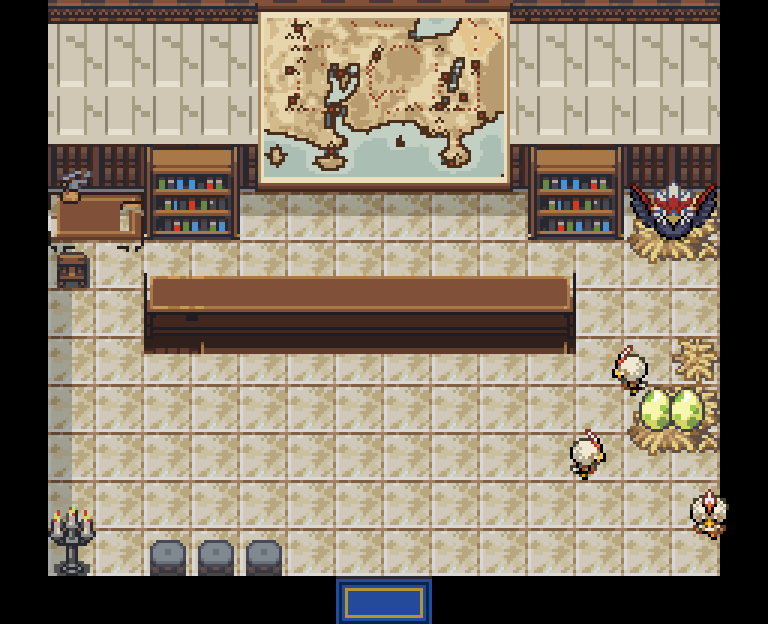
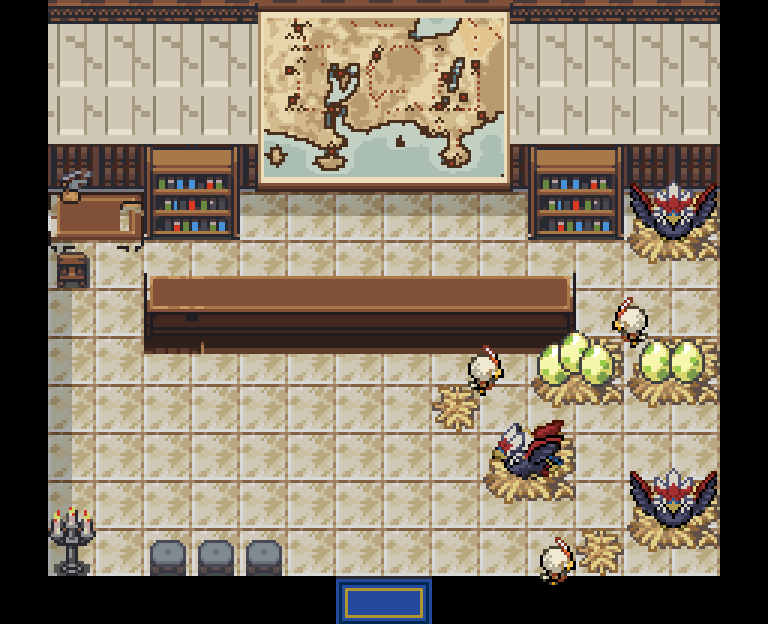
Templar Citadel: registry nursery, three Braviaries and two nests
User: two more straw piles, two more Braviaries, more eggs; the room is theirs.
Three Braviaries on straw beds, two nests with five eggs, Rufflet chicks, feed
straw across the east side; the walkway clear. Bible updated.

Claude-Session: https://claude.ai/code/session_01FHXnfqnedTHLf5QFbB3MCU

Changed region(s): [[0.625, 0.4567, 0.9375, 0.8221], [0.6875, 0.7612, 0.9688, 0.9439], [0.5625, 0.5481, 0.6562, 0.7003]]

diff --git a/tools/art/templar_hq/registry/registry_mock.py b/tools/art/templar_hq/registry/registry_mock.py
@@ -7,8 +7,8 @@ nave at the bottom centre (row 11, x 7-8). The study's room materials.
   cabinets of pigeonholed orders for every Tavern (Odyssey 11.8's).
 - The registrar's counter across the room (MonoMyth's bar counter, shortened, in Crown's wood): behind it, staff only.
 - West: House Raptora's liaison's desk (MonoMyth's writing desk, a chair before it), watching the logs.
-- East, the nursery: a Braviary resting on a bed of straw, a straw nest with two eggs, Rufflet chicks about it, a
-  little straw for feed (MonoMyth's stable straw; the game's own Rufflet and Braviary overworld sprites and the Egg's
+- East, the nursery, their place (user: more of them): three Braviaries each resting on a bed of straw, two straw
+  nests with five eggs, Rufflet chicks among them, straw for feed (MonoMyth's stable straw; the game's own Rufflet and Braviary overworld sprites and the Egg's
   icon). No candle on this side (hay).
 - By the door: three stools where Templars wait their turn (MonoMyth's bar stools); a candelabra in the south-west
   corner.
@@ -70,6 +70,7 @@ def pieces():
     rl = sprite(os.path.join(GFX, 'rufflet', 'overworld.png'), 4)   # (frames: 0-1 down, 2-3 up, 4-5 left)
     P['rufflet_l'] = rl; P['rufflet_r'] = rl[:, ::-1].copy()
     P['egg'] = sprite(os.path.join(GFX, 'egg', 'icon.png'), 0)
+    P['braviary_l'] = np.array(Image.open(os.path.join(HERE, '..', 'yard', 'braviary_left.png')).convert('RGBA')).astype(int)
     P['braviary'] = np.array(Image.open(os.path.join(HERE, '..', 'yard', 'braviary_down.png')).convert('RGBA')).astype(int)
     import parchment_map as PMAP
     P['map'] = PMAP.scroll(80, 53)                            # (user's illustrated map, as parchment, hung as a scroll)
@@ -103,15 +104,23 @@ def main(out):
     put(img, P['counter'], 3 * T, 6 * T - 6)
     # west corner: House Raptora's liaison, at a desk against the wall
     SM.paste(img, P['desk'], 1, 3); SM.paste(img, P['chairL'], 1, 5)
-    # east: the nursery
-    SM.paste(img, P['strawbed'], 13, 4); put(img, P['braviary'], 13 * T, 4 * T - 10)
-    SM.paste(img, P['nest'], 13, 8)
-    ny, nx = centre(P['nest']); ey, ex = centre(P['egg'])
-    for dx in (-5, 5):                                        # (two eggs sitting in the middle of the straw)
-        put(img, P['egg'], int(13 * T + nx - ex + dx), int(8 * T + ny - ey - 3))
-    put(img, P['rufflet_r'], 11 * T + 4, 9 * T - 14); put(img, P['rufflet'], 14 * T - 4, 10 * T - 10)
-    put(img, P['rufflet_l'], 12 * T + 2, 6 * T + 6)
-    SM.paste(img, P['strawsmall'], 14, 7)
+    # east: the nursery, their place (user 2026-11-23: more of them): three Braviaries each on a bed of straw, two
+    # nests with five eggs, Rufflet chicks among them, feed straw; the walkway from the door (x 7-8) left clear
+    def bed(x, y, bird):
+        SM.paste(img, P['strawbed'], x, y); put(img, bird, x * T, y * T - 10)
+    def nest(x, y, n):
+        SM.paste(img, P['nest'], x, y)
+        ny, nx = centre(P['nest']); ey, ex = centre(P['egg'])
+        offs = {2: [(-5, 0), (5, 0)], 3: [(-7, 1), (0, -3), (7, 1)]}[n]
+        for dx, dy in offs: put(img, P['egg'], int(x * T + nx - ex + dx), int(y * T + ny - ey - 3 + dy))
+    bed(13, 4, P['braviary'])
+    nest(11, 7, 3); nest(13, 7, 2)
+    bed(10, 9, P['braviary_l'])
+    bed(13, 10, P['braviary'])
+    SM.paste(img, P['strawsmall'], 9, 8); SM.paste(img, P['strawsmall'], 12, 11)
+    put(img, P['rufflet_l'], 12 * T + 2, 5 * T + 6)
+    put(img, P['rufflet_r'], 9 * T + 2, 7 * T - 10)
+    put(img, P['rufflet_r'], 11 * T - 6, 11 * T - 10)                   # (by the feed straw, clear of the birds)
     # by the door
     for x in (3, 4, 5): SM.paste(img, P['stool'], x, 11)
     SM.paste(img, P['candelabra'], 1, 10)

diff --git a/bible/20_chapter1_build.md b/bible/20_chapter1_build.md
@@ -254,7 +254,7 @@ Chapter 1 is the template: once its foundations (mechanics, maps, buildings, NPC
     - **Decided (user 2026-11-22):** a dead-end side branch off Route 13's fork (Route 15 east closed by a guard); a curtain wall with an open arch and two guards, no hallway map; the ground **stony with touches of snow** (less snowy than Mirroh or Mt. Mirroh, like Fort Elderflower's paving with drifts). Zone plan v1: `tools/art/templar_hq/layout_sketch.py`. **The church is not Crown's cathedral** (Mirroh's chapel uses it; no other source hack has a second one, survey in `assets/templar_hq_reference/cathedral_options.png`): **the Arceus church from Pokémon Empire's Starlight City** (user-supplied; **credit Pokémon Empire before release**), **its front building only** (user: shed the domed hall behind it): the cross tower, the great dome and the rose-window front, cut at the GBA's scale (the source is a 2x upscale) by `tools/art/templar_hq/church/cut_front.py`, **7x13 tiles, native size** (user). **In Arceus's colours** (user: gold and blue, echoing Arceus): the great dome blue; gold on the ring cradling the cross tower (Arceus's wheel), the dome's ribs, both small dome caps and the cross; cream walls, door and stained glass kept (`colourise.py`; `assets/templar_hq_reference/church_arceus_v1.png`).
     - **The courtyard (mock v6, user 2026-11-22; `tools/art/templar_hq/citadel_mock.py`, `assets/templar_hq_reference/citadel_mock_v6_2x.png`):** built on one axis after studying MonoMyth's and Crown's squares (Watercress Port, Chamomile, Wood Avens, Crown's harbour town: a symmetric axis, the main building raised on a terrace with a centred stair, a framed square, houses in mirrored pairs, nothing scattered) and Fort Elderflower's snow (no trees inside paved courts; pines outside in loose clusters of big and small; broad stepped snow patches in the open stone; walking lines bare). The church on a crenellated terrace, its stair on the axis; **a fountain square** (Crown 3.0's tiered fountain) with **four worn stone Arceus statues on its corners** (the expansion's Arceus follower sprite, its side frame, recoloured to weathered grey stone; the left pair facing left, the right pair right; user); the arch, the road down. **The houses in a dark, deep grey wood** (user: so they stand out; Crown 3.2's timber recoloured, glass and lit windows kept), in mirrored pairs: the Tavern and its twin below, two small houses on ledges above, each up a stair centred on its door. **The west pocket: a sparring ground** (user): a railed yard (Crown's rail fence in the grey wood), MonoMyth's Old Bay target stands, Templars sparring (stage 2). **The east pocket: the Braviary landing ground** (user): a round stone pad inlaid with Arceus's golden wheel (drawn), hay by the wall, **Braviaries moving about in the overworld** (user; the expansion's Braviary follower sprite; stage 2 objects). Access: a 3-wide street runs down from each ledge beside the Tavern and its twin to the square (the user's rule: no squeezing). The gate (mock v6, user 2026-11-22): an open gateway, the curtain wall ending in a round tower each side with nothing across (the wall's top carried over the gap read as a broken wall); outside it a paved apron where the two guards stand, clear of the pines. The landing pad centred in the open square above the Tavern's twin (x 29-33, half a tile down); no hay. **The way east to Route 15 (user 2026-11-22): a whole line of Templar guards across the cleft** (one on each of its three rows) blocks it for now. Spoken to, they say **there has been an incident on Route 15, they are observing the situation, and until something changes nobody is allowed in or out that way** (stage 2: their script; the condition that opens it comes with Route 15's chapter). **The buildings (user 2026-11-22):** the Tavern (lower west), **the barracks** (its twin, lower east), **the armoury** (upper west, above the sparring ground), **the Braviary mews** (upper east, above the landing ground).
     - **Built and walked (2026-11-22):** `MAP_TEMPLAR_CITADEL` (`TemplarCitadel`, 40x40; `tools/art/templar_hq/build_citadel.py` from `citadel_mock.py`; its own tileset pair, 12 palettes, 643 tiles; `MAPSEC_DR_TEMPLAR_HQ`, snow; music for now Route 13's, `MUS_DR_MM_ROUTE15`). **Reached from Route 13's north-east exit by a short fade**, as Hollow Hill's way north reaches Mirroh Gate: triggers on Route 13's top row (x 32-34) warp to the Citadel's road (x 18-20, row 38), and on the Citadel's bottom row back. (A map connection was tried and the Citadel came up scrambled in the game: the engine reloads only the new map's secondary tileset across a connection, since connected maps are meant to share a primary, and draws the neighbour's visible strip with the current map's tiles; the Citadel has its own primary.) Collision: paving and stairs walked on, the landing pad too; cliffs, walls, buildings, statues, the fountain, lamps, fences, targets solid; outside the wall only the road and the guards' apron. **The doors stay shut until the interiors exist** (next). The stair's foot has no lamps: with the statues and the fountain they closed it off from the square. **The line of three Templar guards across the cleft to Route 15 is in** (objects; their line as the user gave it). Walked in the game: from Route 13 in, the gateway, the square, up the church stair to its door, both streets and ledge stairs, the sparring yard, the landing pad, both lower doors, the guards (they block and speak), and back down to Route 13 (`assets/templar_hq_reference/ingame_citadel_walk.png`).
-    - **The Citadel's story (user 2026-11-22; stages 2-4):** it stands in **a stone hollow of the Mirroh mountains**, an **open courtyard** before the church, with **Templars outside in the courtyard and inside the church**. **Loulan** (the Templar the player helped on Route 11) **reappears inside**: she has told Archbishop Ambrose about the player, comes up to them, thanks them again for the Eiscue, and **guides them further in, to the heart of the cathedral**, where **the player first meets Archbishop Ambrose Caymen**, who speaks with them. **The interior has two levels (user 2026-11-22):** the **first floor**, the cathedral as its central room with **four offices around it**, off cloister walks either side (user: **Ambrose's study**, **the Braviary registry**, **the bishops' chambers**, and **the kitchen and storehouse** where the Templars stock food and feed themselves: the prime cathedral's kitchen and stores; floor plan v1, `tools/art/templar_hq/interior_sketch.py`); **the nave from Pokémon Empire's Arceus church interior** (user 2026-11-23, supplied with its tileset; credit Pokémon Empire; mock v2, `tools/art/templar_hq/nave/nave_mock_v2.py`, `assets/templar_hq_reference/nave_mock_v2_2x.png`; a first try from Crown's round hall was set aside): its raised chancel behind a balustrade (the altar where Ambrose waits, the lectern, the communion table, the piano, three great stained-glass windows), **the great window's central light is an Arceus in stained glass** (approved by the user 2026-11-23, from the user's own design, `assets/templar_hq_reference/empire/user_arceus_window_mockup.png`, replacing Empire's robed figure; mock v3, `assets/templar_hq_reference/nave_mock_v3_2x.png`, `arceus_glass_vs_design.png`): **pixel for pixel, each pixel given the Empire glass for what it is** (user: look at each colour of the design and replace that pixel with the stained-glass cell that fits; a try that took the *nearest* colour came out khaki and grey, and the user pointed to Empire's gold cells, (240,184,48)/(243,192,39)): dark pixels Empire's lead; the rest read by hue into a family, white for the body, cream for the halo, yellow for the rays, gold for the wheel, blue, red, teal-green for eyes and jewels, and the design's light and shade picks which of that family's shades, every shade an exact colour of Empire's windows; the light filled solid between its frames so none of the old figure's lead shows through (`tools/art/templar_hq/glass/arceus_glass.py`; tries that re-cut the design into panes looked jumbled and were dropped), a stair down either side of the low window, the nave of pews down the Order's blue carpet; its brick floor and wooden wall tops recoloured to the church's cream stone; **six doors in its south-facing wall faces** (where banners hung; confirmed by the user 2026-11-23): on the chancel, west **the sealed stair to the Sanctum** (a gold grille) and east **Ambrose's study**; at the head of the nave **the bishops' chambers** (west) and **the Braviary registry** (east), then **the kitchen** (west) and **the storehouse** (east). For the kitchen: a stove the user liked, from a MonoMyth house (`assets/templar_hq_reference/empire/monomyth_stove_room.png`; **found in its ROM**: the cabin layouts 0x8864c00 / 0x8866430, `monomyth_stove_found.png`). **Ambrose's study** (behind the chancel's east door, user 2026-11-23; mock v2, `tools/art/templar_hq/study/study_mock.py`, `assets/templar_hq_reference/study_mock_v2_3x.png`; v1 was rejected: it did not read as an office). **Laid out by use** (floor plan v2, `study_plan.py`, approved): 14x12, Crown 7.9's room (user's pick, `study_office_candidates.png`) widened, its wallpaper in the cathedral's cream, its panelling and cream marble kept. **Work:** MonoMyth's writing desk (paper, quill, inkwell, in a dark wood) centred on a widened blue-and-gold rug, **Ambrose's chair behind it** facing the door (Crown 9.3's gold armchair, against the panelling under **the Order's banner with Arceus's wheel**, drawn as in the Sanctum), **two visitor chairs** before it facing him, the walkway from the door straight up to them. **Back wall:** two bookcases west. **Rest (east), for nights he stays in the cathedral:** a bed, head to the wall (Crown 1.18's, white sheets and a blue frame), a small chest at its head as a bedside stand, MonoMyth's chest of drawers for his robes, a pair of folding-screen panels (MonoMyth) at its foot shielding it from the room; the bed is reached from beside it. **Reading (west):** an armchair facing a tea table. **By the door:** two busts on plinths and a candelabra in each corner (Crown 18.1). Credit Crown, MonoMyth. **The bishops' chambers** (behind the nave's west door at its head; user 2026-11-23; floor plans v1, approved, `tools/art/templar_hq/bishops/bishops_plan.py`, `assets/templar_hq_reference/bishops_plan_v1.png`): **two rooms.** **The study hall** (18x13, entered from the nave): the bishops' day room for **prayer, discussion and day-to-day record keeping**, where **visiting diplomats and notables mingle** (anything needing real discretion goes to Ambrose's study instead): a small shrine with kneelers at its head on the axis from the door, between two banners; records west (two clerks' desks, bookcases, scroll racks); discussion east (a long table seating eight, a sitting corner with a sofa and armchairs); **the dormitory's door** in the north wall's west end. **One subtle clue** to the cult-aligned bishops (user): a letter the player can read on the lower clerk's desk (wording `[OPEN]`, story stage). **The dormitory**: a **shared sleeping room for the six bishops** (user; plan v1 put six beds along the north wall, superseded by mock v2 below); its door back to the hall at the bottom. **Mocks v1** (`tools/art/templar_hq/bishops/hall_mock.py`, `dorm_mock.py`; `assets/templar_hq_reference/hall_mock_v1_3x.png`, `dorm_mock_v1_3x.png`), in the study's materials (Crown 7.9's cream walls, panelling and marble): **the hall**: the shrine is the Arceus wheel on a blue roundel over an altar (Crown 9.3's cream table) between candelabras and the Order's banners, a prayer mat across the axis (the kneelers) and a blue runner down to the door; west, Fantasma's scroll cabinet, scroll basket and the record clerk's ledger table (his chair beside it), and **the clue desk** (MonoMyth's writing desk, its sheet of paper the letter, a chair before it); east, a long table **turned north-south** so its eight chairs face it from the sides (MonoMyth's, toned to dark wood), a bookcase and Fantasma's drawer cabinet on the back wall, and Crown 9.3's two armchairs facing across a low table as the visitors' corner; the dormitory's door is Crown 1.12's wall door. **The dormitory, mock v2** (v1, a row of beds each with its own chest and footlocker, "looks really awkward" (user); redesigned after other games' multi-bed rooms, `dorm_references.png`: MonoMyth's inn 87ed300 and hut 87f6e98, Odyssey 11.8, which group their beds bare and share one set of furniture; `dorm_mock_v2_3x.png`): 14x16, **monastery style** (user's pick): **three beds down each side**, heads north, end to end as in Odyssey 11.8 (Odyssey's bed, wooden headboard and blue quilt); a long blue-and-gold rug down the centre aisle with **one shared table** (dark wood, four chairs a side) for reading and meals; at the head the Arceus wheel over an altar between candelabras, as in the hall; against the back wall, in the bays either side of the altar, the robes chest for the six (MonoMyth's bureau in Crown's wood, as in the study) and the washstand; the floor by the door left clear (user: Fantasma's drawer cabinet standing there "doesn't fit"). **The Braviary registry** (behind the nave's east door at its head; user 2026-11-23; plan v1 `tools/art/templar_hq/registry/registry_plan.py`, mock v1 `registry_mock.py`, `assets/templar_hq_reference/registry_mock_v1_3x.png`): **the office that runs the empire's Braviary travel** (every Tavern Templar flies paying travellers; House Raptora bred the line). 16x12: on the back wall **the map of Cormoria** (the game's own parchment region map, scaled into a wooden frame) between ledger shelves, **dispatch cabinets** for orders to every Tavern at the west end; **the registrar's counter** across the room (staff behind it, as in a shop); west, **House Raptora's liaison's desk** (user: yes), watching the logs (a quiet hook for Raptora's oversight of every flight, 16_bloodlines_canon.md); east, **the nursery** (user: "some Rufflet chicks plus even a few egg overworld sprites to show that new Rufflets and Braviaries are often born or evolve here"): a Braviary resting on straw, a straw nest with eggs, Rufflet chicks about it (the game's own Rufflet and Braviary overworld sprites and the Egg's icon; in the game, object events); stools by the door for Templars waiting their turn. No source has a bird perch, so the Braviary rests on straw. Credit Crown, MonoMyth, Odyssey. **Mock v2** (`registry_mock_v2_3x.png`; user: the desk and bookcases sat awkwardly, the eggs were off the straw, the map should be more like parchment and cleaner, or built from the user's high-fidelity illustrated map): the back wall is four tiles tall (wallpaper three, panelling one) and holds **the user's illustrated map of the Cormorian Empire redrawn as a parchment scroll** (`registry/parchment_map.py`: pale paper, land in three parchment tones from the painting's light and shade, a pale sea wash, the desert tan, an ink coastline, the rivers in blue ink, the painting's roads as dotted red-brown ink, its towns as ink squares, its rocky peaks as ink marks, the compass rose; wooden rods top and bottom) between **two ledger bookcases**, the counter running their width so the whole staff wall reads as one; **the Raptora liaison's desk against the wall in the west corner** (the liaison faces the wall, like a clerk); the dispatch cabinets dropped; **the eggs sit in the middle of the straw nest** (placed from the nest's own shape). Credit Crown, MonoMyth; Fantasma public. **a stair from the cathedral room up to the Sanctum**, the top of the cross tower (its trio of stained-glass windows and the cross above), known simply as **the Sanctum**. This makes the Citadel the natural place for **the Opal-for-Warding-Ring exchange** (the player carries the Sparkling Opal from Pelluca's shrine); 8d's Ambrose, inspecting the ice ruins in Pelluca, comes after. **Required before Mt. Mirroh (user 2026-11-22):** a Templar on Route 13's trail to Mt. Mirroh turns the player back until they have met Ambrose (stage 4 sets the flag). **Loulan leads the player to the cathedral's altar** (the head of the first floor's central room), where Ambrose waits (user); the Sanctum is for later. **The Sanctum (user 2026-11-22): a special area unlocked later, a place of reflection, and a library**: a holy room to commune with Arceus that is also **a lost repository of knowledge and secret tomes** (its look drawn from the source hacks' libraries and archives: **Fantasma's castle library**, its mapsec 1 layout s001_b68c, the sister of the room Kimaris's chamber was made from; three arched alcoves of books, lecterns with open tomes, a writing desk, candelabras, and **a glowing circle in the floor where the shadow self rises**; recoloured to the church's cream stone, its skull banners to the Order's blue with Arceus's golden wheel, its two narrow windows to stained glass, the circle to the church's gold and glass blue, the cobwebs kept since it is a lost repository; `tools/art/templar_hq/sanctum/sanctum_mock.py`, `assets/templar_hq_reference/sanctum_mock_v1_3x.png`; Fantasma's art is public assets, no credit needed (user 2026-11-22)), with one striking feature: the player can **fight their shadow self**, a copy of the player with **their exact team, slightly above the current level cap**; **winning earns interesting rewards**. **Unlocked by defeating Archbishop Ambrose** in the Archbishop fight of the Ambrose Caymen Arc (14_story_spine.md: Act III closing / Act IV opening, after Osrid foils the bishops' coup; Ambrose with Temperance and Brunhilda), user 2026-11-22. **The shadow-self challenge (user 2026-11-22): an optional quest, three fights in the whole game**, each opened by a condition; the player is **pinged when the Sanctum can be entered again** (how: `[OPEN]`):
+    - **The Citadel's story (user 2026-11-22; stages 2-4):** it stands in **a stone hollow of the Mirroh mountains**, an **open courtyard** before the church, with **Templars outside in the courtyard and inside the church**. **Loulan** (the Templar the player helped on Route 11) **reappears inside**: she has told Archbishop Ambrose about the player, comes up to them, thanks them again for the Eiscue, and **guides them further in, to the heart of the cathedral**, where **the player first meets Archbishop Ambrose Caymen**, who speaks with them. **The interior has two levels (user 2026-11-22):** the **first floor**, the cathedral as its central room with **four offices around it**, off cloister walks either side (user: **Ambrose's study**, **the Braviary registry**, **the bishops' chambers**, and **the kitchen and storehouse** where the Templars stock food and feed themselves: the prime cathedral's kitchen and stores; floor plan v1, `tools/art/templar_hq/interior_sketch.py`); **the nave from Pokémon Empire's Arceus church interior** (user 2026-11-23, supplied with its tileset; credit Pokémon Empire; mock v2, `tools/art/templar_hq/nave/nave_mock_v2.py`, `assets/templar_hq_reference/nave_mock_v2_2x.png`; a first try from Crown's round hall was set aside): its raised chancel behind a balustrade (the altar where Ambrose waits, the lectern, the communion table, the piano, three great stained-glass windows), **the great window's central light is an Arceus in stained glass** (approved by the user 2026-11-23, from the user's own design, `assets/templar_hq_reference/empire/user_arceus_window_mockup.png`, replacing Empire's robed figure; mock v3, `assets/templar_hq_reference/nave_mock_v3_2x.png`, `arceus_glass_vs_design.png`): **pixel for pixel, each pixel given the Empire glass for what it is** (user: look at each colour of the design and replace that pixel with the stained-glass cell that fits; a try that took the *nearest* colour came out khaki and grey, and the user pointed to Empire's gold cells, (240,184,48)/(243,192,39)): dark pixels Empire's lead; the rest read by hue into a family, white for the body, cream for the halo, yellow for the rays, gold for the wheel, blue, red, teal-green for eyes and jewels, and the design's light and shade picks which of that family's shades, every shade an exact colour of Empire's windows; the light filled solid between its frames so none of the old figure's lead shows through (`tools/art/templar_hq/glass/arceus_glass.py`; tries that re-cut the design into panes looked jumbled and were dropped), a stair down either side of the low window, the nave of pews down the Order's blue carpet; its brick floor and wooden wall tops recoloured to the church's cream stone; **six doors in its south-facing wall faces** (where banners hung; confirmed by the user 2026-11-23): on the chancel, west **the sealed stair to the Sanctum** (a gold grille) and east **Ambrose's study**; at the head of the nave **the bishops' chambers** (west) and **the Braviary registry** (east), then **the kitchen** (west) and **the storehouse** (east). For the kitchen: a stove the user liked, from a MonoMyth house (`assets/templar_hq_reference/empire/monomyth_stove_room.png`; **found in its ROM**: the cabin layouts 0x8864c00 / 0x8866430, `monomyth_stove_found.png`). **Ambrose's study** (behind the chancel's east door, user 2026-11-23; mock v2, `tools/art/templar_hq/study/study_mock.py`, `assets/templar_hq_reference/study_mock_v2_3x.png`; v1 was rejected: it did not read as an office). **Laid out by use** (floor plan v2, `study_plan.py`, approved): 14x12, Crown 7.9's room (user's pick, `study_office_candidates.png`) widened, its wallpaper in the cathedral's cream, its panelling and cream marble kept. **Work:** MonoMyth's writing desk (paper, quill, inkwell, in a dark wood) centred on a widened blue-and-gold rug, **Ambrose's chair behind it** facing the door (Crown 9.3's gold armchair, against the panelling under **the Order's banner with Arceus's wheel**, drawn as in the Sanctum), **two visitor chairs** before it facing him, the walkway from the door straight up to them. **Back wall:** two bookcases west. **Rest (east), for nights he stays in the cathedral:** a bed, head to the wall (Crown 1.18's, white sheets and a blue frame), a small chest at its head as a bedside stand, MonoMyth's chest of drawers for his robes, a pair of folding-screen panels (MonoMyth) at its foot shielding it from the room; the bed is reached from beside it. **Reading (west):** an armchair facing a tea table. **By the door:** two busts on plinths and a candelabra in each corner (Crown 18.1). Credit Crown, MonoMyth. **The bishops' chambers** (behind the nave's west door at its head; user 2026-11-23; floor plans v1, approved, `tools/art/templar_hq/bishops/bishops_plan.py`, `assets/templar_hq_reference/bishops_plan_v1.png`): **two rooms.** **The study hall** (18x13, entered from the nave): the bishops' day room for **prayer, discussion and day-to-day record keeping**, where **visiting diplomats and notables mingle** (anything needing real discretion goes to Ambrose's study instead): a small shrine with kneelers at its head on the axis from the door, between two banners; records west (two clerks' desks, bookcases, scroll racks); discussion east (a long table seating eight, a sitting corner with a sofa and armchairs); **the dormitory's door** in the north wall's west end. **One subtle clue** to the cult-aligned bishops (user): a letter the player can read on the lower clerk's desk (wording `[OPEN]`, story stage). **The dormitory**: a **shared sleeping room for the six bishops** (user; plan v1 put six beds along the north wall, superseded by mock v2 below); its door back to the hall at the bottom. **Mocks v1** (`tools/art/templar_hq/bishops/hall_mock.py`, `dorm_mock.py`; `assets/templar_hq_reference/hall_mock_v1_3x.png`, `dorm_mock_v1_3x.png`), in the study's materials (Crown 7.9's cream walls, panelling and marble): **the hall**: the shrine is the Arceus wheel on a blue roundel over an altar (Crown 9.3's cream table) between candelabras and the Order's banners, a prayer mat across the axis (the kneelers) and a blue runner down to the door; west, Fantasma's scroll cabinet, scroll basket and the record clerk's ledger table (his chair beside it), and **the clue desk** (MonoMyth's writing desk, its sheet of paper the letter, a chair before it); east, a long table **turned north-south** so its eight chairs face it from the sides (MonoMyth's, toned to dark wood), a bookcase and Fantasma's drawer cabinet on the back wall, and Crown 9.3's two armchairs facing across a low table as the visitors' corner; the dormitory's door is Crown 1.12's wall door. **The dormitory, mock v2** (v1, a row of beds each with its own chest and footlocker, "looks really awkward" (user); redesigned after other games' multi-bed rooms, `dorm_references.png`: MonoMyth's inn 87ed300 and hut 87f6e98, Odyssey 11.8, which group their beds bare and share one set of furniture; `dorm_mock_v2_3x.png`): 14x16, **monastery style** (user's pick): **three beds down each side**, heads north, end to end as in Odyssey 11.8 (Odyssey's bed, wooden headboard and blue quilt); a long blue-and-gold rug down the centre aisle with **one shared table** (dark wood, four chairs a side) for reading and meals; at the head the Arceus wheel over an altar between candelabras, as in the hall; against the back wall, in the bays either side of the altar, the robes chest for the six (MonoMyth's bureau in Crown's wood, as in the study) and the washstand; the floor by the door left clear (user: Fantasma's drawer cabinet standing there "doesn't fit"). **The Braviary registry** (behind the nave's east door at its head; user 2026-11-23; plan v1 `tools/art/templar_hq/registry/registry_plan.py`, mock v1 `registry_mock.py`, `assets/templar_hq_reference/registry_mock_v1_3x.png`): **the office that runs the empire's Braviary travel** (every Tavern Templar flies paying travellers; House Raptora bred the line). 16x12: on the back wall **the map of Cormoria** (the game's own parchment region map, scaled into a wooden frame) between ledger shelves, **dispatch cabinets** for orders to every Tavern at the west end; **the registrar's counter** across the room (staff behind it, as in a shop); west, **House Raptora's liaison's desk** (user: yes), watching the logs (a quiet hook for Raptora's oversight of every flight, 16_bloodlines_canon.md); east, **the nursery** (user: "some Rufflet chicks plus even a few egg overworld sprites to show that new Rufflets and Braviaries are often born or evolve here"): a Braviary resting on straw, a straw nest with eggs, Rufflet chicks about it (the game's own Rufflet and Braviary overworld sprites and the Egg's icon; in the game, object events); stools by the door for Templars waiting their turn. No source has a bird perch, so the Braviary rests on straw. Credit Crown, MonoMyth, Odyssey. **Mock v2** (`registry_mock_v2_3x.png`; user: the desk and bookcases sat awkwardly, the eggs were off the straw, the map should be more like parchment and cleaner, or built from the user's high-fidelity illustrated map): the back wall is four tiles tall (wallpaper three, panelling one) and holds **the user's illustrated map of the Cormorian Empire redrawn as a parchment scroll** (`registry/parchment_map.py`: pale paper, land in three parchment tones from the painting's light and shade, a pale sea wash, the desert tan, an ink coastline, the rivers in blue ink, the painting's roads as dotted red-brown ink, its towns as ink squares, its rocky peaks as ink marks, the compass rose; wooden rods top and bottom) between **two ledger bookcases**, the counter running their width so the whole staff wall reads as one; **the Raptora liaison's desk against the wall in the west corner** (the liaison faces the wall, like a clerk); the dispatch cabinets dropped; **the eggs sit in the middle of the straw nest** (placed from the nest's own shape). **The nursery is their place** (user 2026-11-23: two more straw piles, two more Braviaries, more eggs): **three Braviaries** each resting on its own bed of straw (one turned to the side), **two nests with five eggs**, three Rufflet chicks among them and feed straw, across the room's east side, the walkway from the door kept clear. Credit Crown, MonoMyth; Fantasma public. **a stair from the cathedral room up to the Sanctum**, the top of the cross tower (its trio of stained-glass windows and the cross above), known simply as **the Sanctum**. This makes the Citadel the natural place for **the Opal-for-Warding-Ring exchange** (the player carries the Sparkling Opal from Pelluca's shrine); 8d's Ambrose, inspecting the ice ruins in Pelluca, comes after. **Required before Mt. Mirroh (user 2026-11-22):** a Templar on Route 13's trail to Mt. Mirroh turns the player back until they have met Ambrose (stage 4 sets the flag). **Loulan leads the player to the cathedral's altar** (the head of the first floor's central room), where Ambrose waits (user); the Sanctum is for later. **The Sanctum (user 2026-11-22): a special area unlocked later, a place of reflection, and a library**: a holy room to commune with Arceus that is also **a lost repository of knowledge and secret tomes** (its look drawn from the source hacks' libraries and archives: **Fantasma's castle library**, its mapsec 1 layout s001_b68c, the sister of the room Kimaris's chamber was made from; three arched alcoves of books, lecterns with open tomes, a writing desk, candelabras, and **a glowing circle in the floor where the shadow self rises**; recoloured to the church's cream stone, its skull banners to the Order's blue with Arceus's golden wheel, its two narrow windows to stained glass, the circle to the church's gold and glass blue, the cobwebs kept since it is a lost repository; `tools/art/templar_hq/sanctum/sanctum_mock.py`, `assets/templar_hq_reference/sanctum_mock_v1_3x.png`; Fantasma's art is public assets, no credit needed (user 2026-11-22)), with one striking feature: the player can **fight their shadow self**, a copy of the player with **their exact team, slightly above the current level cap**; **winning earns interesting rewards**. **Unlocked by defeating Archbishop Ambrose** in the Archbishop fight of the Ambrose Caymen Arc (14_story_spine.md: Act III closing / Act IV opening, after Osrid foils the bishops' coup; Ambrose with Temperance and Brunhilda), user 2026-11-22. **The shadow-self challenge (user 2026-11-22): an optional quest, three fights in the whole game**, each opened by a condition; the player is **pinged when the Sanctum can be entered again** (how: `[OPEN]`):
       1. after first defeating Ambrose (the Ambrose Caymen Arc);
       2. after speaking with **Alban** again once the **Wo-Chien incident at the Alban estate** is dealt with (the Trial 6 chapter: Indrid Alban, House Alban; Wo-Chien is the Treasure bound to the tablets);
       3. after conquering **all nine Trials**.
